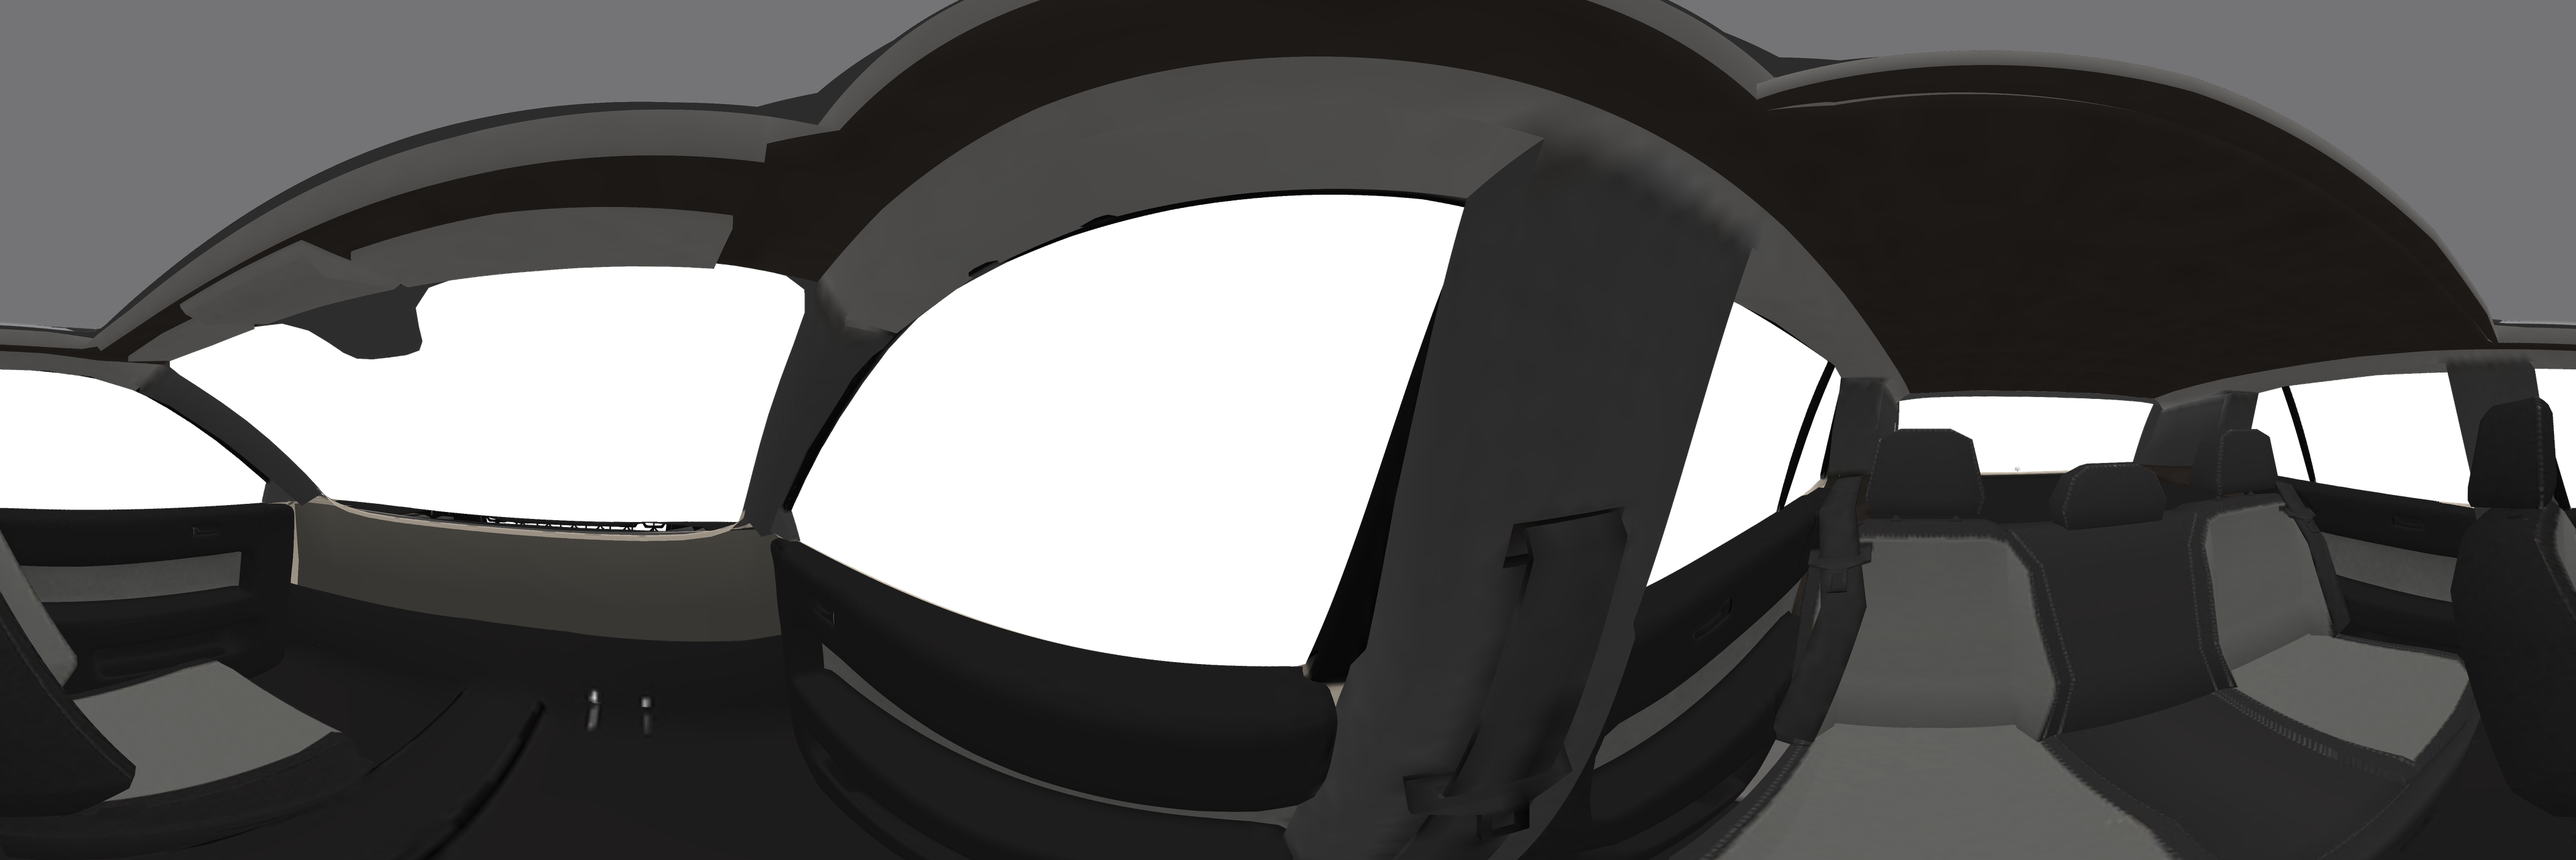
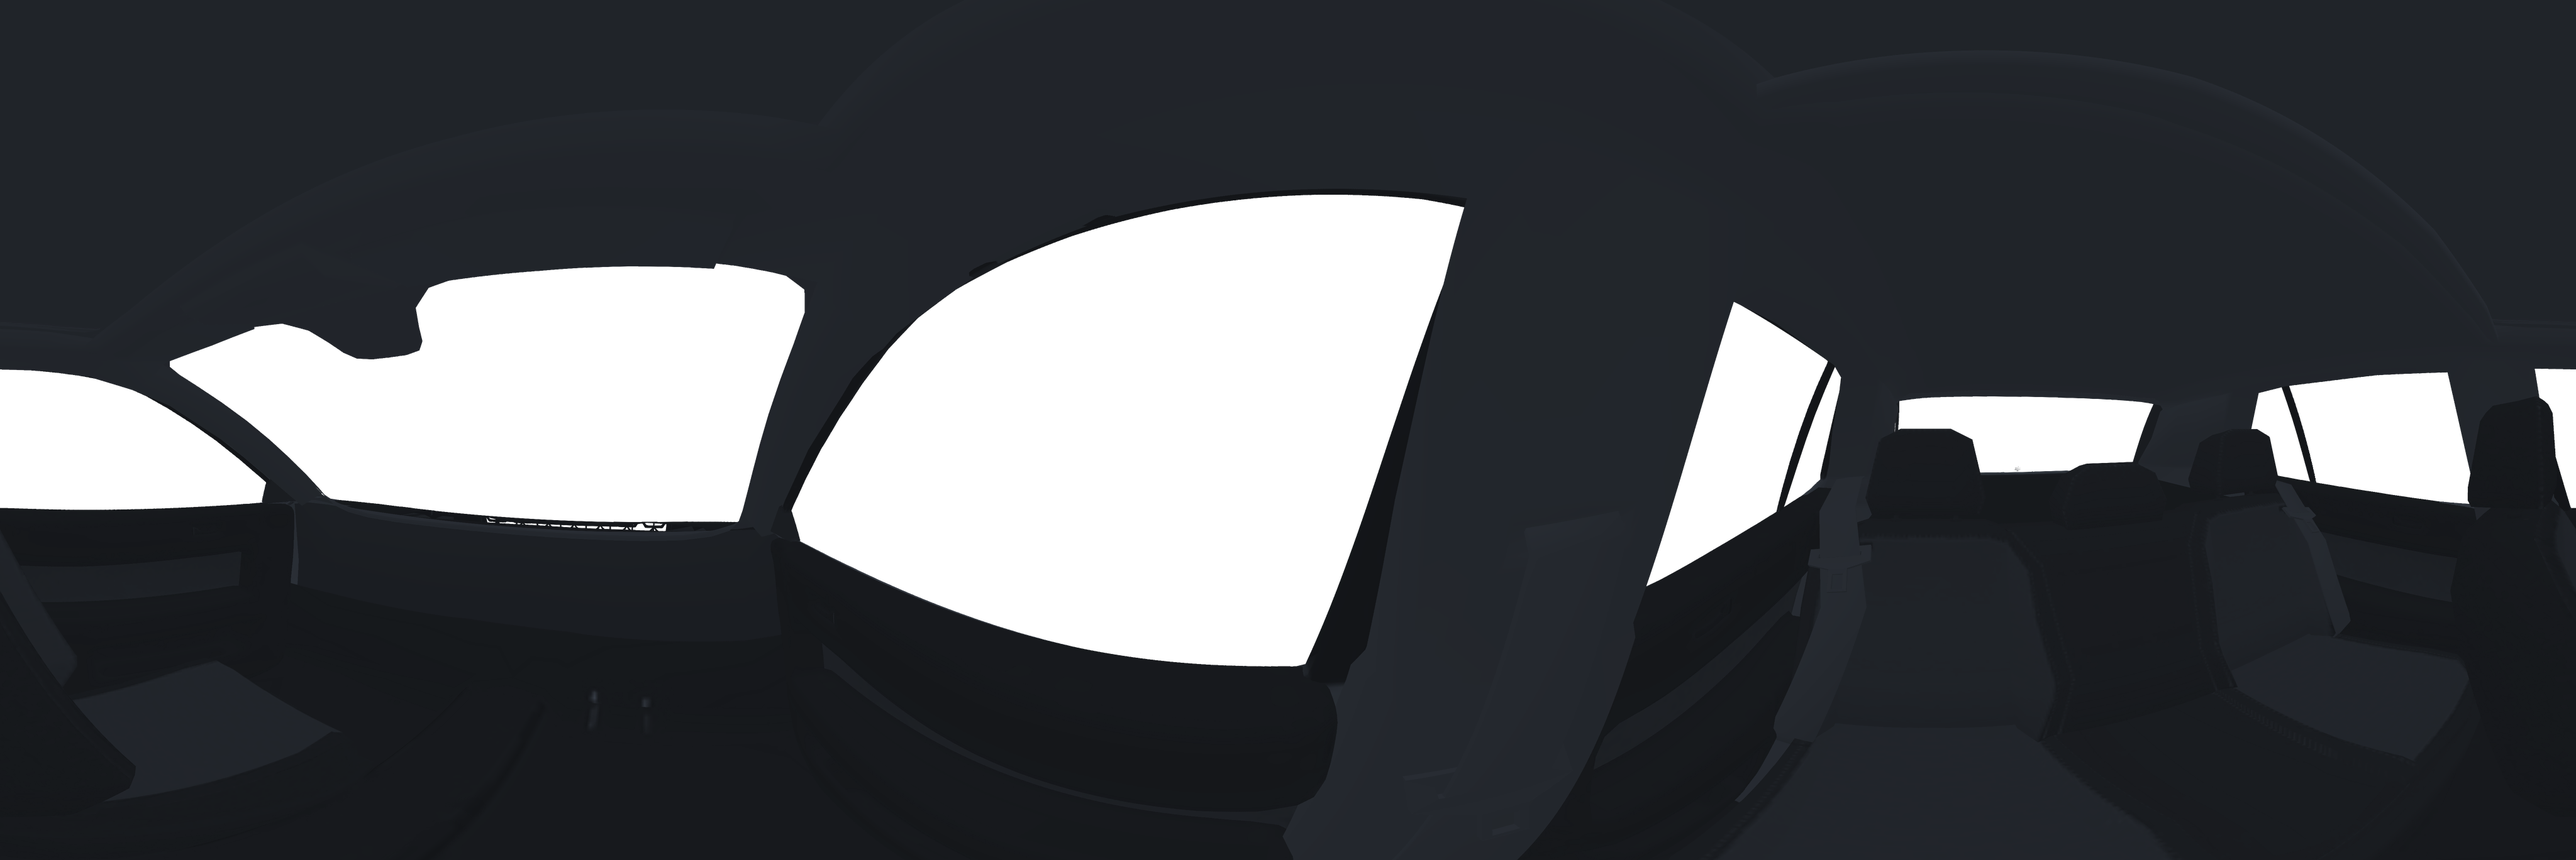
Cabin panorama: all interior in one dark slate tone, sunroof filled as flat headliner
Claude-Session: https://claude.ai/code/session_016Zy8X1pPCmx7oSK87GxSWN

diff --git a/tools/bake-pano/bake.html b/tools/bake-pano/bake.html
@@ -18,8 +18,11 @@ window.bake=async function(P){
  const ren=new T.WebGLRenderer({preserveDrawingBuffer:true,alpha:true});ren.outputEncoding=T.sRGBEncoding;ren.setSize(P.W,P.H);document.body.appendChild(ren.domElement);
  const sc=new T.Scene();const car=await loadGLB('car.glb');sc.add(car);sc.updateMatrixWorld(true);
  const GLASS=/Glass_ext-tinted|glass-windshield/;const HIDE=new RegExp(P.hide);
- const mask=new T.MeshBasicMaterial({color:0xff00ff,side:T.DoubleSide});
- car.traverse(o=>{if(!o.isMesh)return;if(HIDE.test(o.name)){o.visible=false;return}if(/glass-sunroof/.test(o.name))o.material=new T.MeshLambertMaterial({color:0x3c3c3e,side:T.DoubleSide});else if(GLASS.test(o.material.userData.name))o.material=mask;else if(o.material.userData.name.match(/^glass-headlight|Glass_-_Red/)){}});
+ const mask=new T.MeshBasicMaterial({color:0xff00ff,side:T.DoubleSide});const ROOF=new T.MeshLambertMaterial({color:P.roof,side:T.DoubleSide});
+ car.traverse(o=>{if(!o.isMesh)return;if(HIDE.test(o.name)){o.visible=false;return}if(/sunroof/.test(o.name))o.material=ROOF;      // 天窗玻璃、天窗框、顶棚：统一成一块平的深色顶棚，看不出天窗
+   else if(!GLASS.test(o.material.userData.name)){o.material.color.multiplyScalar(P.dark);}      // 其余内饰：贴图保留细节，整体压暗
+   if(GLASS.test(o.material.userData.name)&&!/sunroof/.test(o.name))o.material=mask;return;
+   if(GLASS.test(o.material.userData.name))o.material=mask;else if(o.material.userData.name.match(/^glass-headlight|Glass_-_Red/)){}});
  sc.add(new T.HemisphereLight(0xffffff,0x606060,P.hemi));const d=new T.DirectionalLight(0xffffff,P.dir);d.position.set(.3,1,.4);sc.add(d);sc.add(new T.AmbientLight(0xffffff,P.amb));
  const crt=new T.WebGLCubeRenderTarget(P.cube,{encoding:T.sRGBEncoding});const cc=new T.CubeCamera(.01,20,crt);cc.position.set(...P.eye);sc.add(cc);
  ren.setClearColor(0xff00ff,1);cc.update(ren,sc);

diff --git a/lib/cockpit.js b/lib/cockpit.js
@@ -36,7 +36,7 @@ setMir(false);
 let cluster=null,CLM=null;
 { // 车内壳体：一张环绕驾驶员的全景图，贴在驾驶员眼睛处的透明球体内侧。转头时它跟车不动。
   // pano3：用用户给的小型 SUV 3D 模型（车内座椅、门板、顶棚、立柱）在驾驶员眼睛处烘焙出来的 360° 图，玻璃和车外部分透明（tools/bake-pano）
- const pt=new T.TextureLoader().load('assets/pano3.png?v=1127l');pt.minFilter=T.LinearFilter;pt.generateMipmaps=false;
+ const pt=new T.TextureLoader().load('assets/pano3.png?v=1127m');pt.minFilter=T.LinearFilter;pt.generateMipmaps=false;
  const sp=new T.Mesh(new T.SphereGeometry(1.3,128,32,0,Math.PI*2,Math.PI/2-1.05,2.1),new T.MeshBasicMaterial({map:pt,transparent:true,side:T.BackSide,depthWrite:false,fog:false}));
  sp.position.set(.38,0,0);sp.renderOrder=1;sp.frustumCulled=false;cockpit.add(sp);
  // 仪表盘：只画一次的静态图（两个圆表盘）

diff --git a/index.html b/index.html
@@ -234,7 +234,7 @@ details.route summary{cursor:pointer}
 <script src="lib/sheet.js?v=1127b"></script>
 <script>
 // 版本号：改了哪个项目就改这里，让手机重新下载
-const V='1127l';
+const V='1127m';
 // ---------- 所有单项（以后模拟考试也按这里的 id 串起来） ----------
 const ITEMS={
  'green-right':{zh:'绿灯右转',en:'Right turn on green',dz:'行人和自行车、对面左转车、黄灯、警车，每次随机组合',de:'Pedestrians, cyclists, oncoming left-turners, amber lights and police cars in random combinations'},

diff --git a/exit.html b/exit.html
@@ -106,7 +106,7 @@ details{margin:8px 0;font-size:14px}summary{cursor:pointer;color:#2f6fe0;font-we
 <script src="lib/actors.js?v=1112y"></script>
 <script src="lib/ads.js?v=1110o"></script>
 <script src="lib/billboard.js?v=1110o"></script>
-<script src="lib/cockpit.js?v=1127l"></script>
+<script src="lib/cockpit.js?v=1127m"></script>
 <script src="lib/hq.js?v=1117d"></script>
 <script src="lib/ui.js?v=1117s"></script>
 <script src="lib/houses.js?v=1106i"></script>

diff --git a/green-left.html b/green-left.html
@@ -100,7 +100,7 @@ details{margin:8px 0;font-size:14px}summary{cursor:pointer;color:#2f6fe0;font-we
 <script src="lib/actors.js?v=1112y"></script>
 <script src="lib/ads.js?v=1110o"></script>
 <script src="lib/billboard.js?v=1110o"></script>
-<script src="lib/cockpit.js?v=1127l"></script>
+<script src="lib/cockpit.js?v=1127m"></script>
 <script src="lib/hq.js?v=1117d"></script>
 <script src="lib/rules.js?v=1028c"></script>
 <script src="lib/ui.js?v=1117s"></script>

diff --git a/green-arrow.html b/green-arrow.html
@@ -95,7 +95,7 @@ details{margin:8px 0;font-size:14px}summary{cursor:pointer;color:#2f6fe0;font-we
 <script src="lib/actors.js?v=1112y"></script>
 <script src="lib/ads.js?v=1110o"></script>
 <script src="lib/billboard.js?v=1110o"></script>
-<script src="lib/cockpit.js?v=1127l"></script>
+<script src="lib/cockpit.js?v=1127m"></script>
 <script src="lib/hq.js?v=1117d"></script>
 <script src="lib/rules.js?v=1028c"></script>
 <script src="lib/ui.js?v=1117s"></script>

diff --git a/green-right.html b/green-right.html
@@ -80,7 +80,7 @@ details{margin:8px 0;font-size:14px}summary{cursor:pointer;color:#2f6fe0;font-we
 <script src="lib/actors.js?v=1112y"></script>
 <script src="lib/ads.js?v=1110o"></script>
 <script src="lib/billboard.js?v=1110o"></script>
-<script src="lib/cockpit.js?v=1127l"></script>
+<script src="lib/cockpit.js?v=1127m"></script>
 <script src="lib/hq.js?v=1117d"></script>
 <script src="lib/rules.js?v=1028c"></script>
 <script src="lib/ui.js?v=1117s"></script>

diff --git a/red-right.html b/red-right.html
@@ -79,7 +79,7 @@ details{margin:8px 0;font-size:14px}summary{cursor:pointer;color:#2f6fe0;font-we
 <script src="lib/actors.js?v=1112y"></script>
 <script src="lib/ads.js?v=1110o"></script>
 <script src="lib/billboard.js?v=1110o"></script>
-<script src="lib/cockpit.js?v=1127l"></script>
+<script src="lib/cockpit.js?v=1127m"></script>
 <script src="lib/hq.js?v=1117d"></script>
 <script src="lib/rules.js?v=1028c"></script>
 <script src="lib/ui.js?v=1117s"></script>

diff --git a/headin.html b/headin.html
@@ -106,7 +106,7 @@ details{margin:8px 0;font-size:14px}summary{cursor:pointer;color:#2f6fe0;font-we
 <script src="lib/core.js?v=1120d"></script>
 <script src="lib/en.js?v=1127b"></script>
 <script src="lib/actors.js?v=1112y"></script>
-<script src="lib/cockpit.js?v=1127l"></script>
+<script src="lib/cockpit.js?v=1127m"></script>
 <script src="lib/ui.js?v=1117s"></script>
 <script src="lib/houses.js?v=1106i"></script>
 <script src="lib/hood.js?v=1117a"></script>

diff --git a/straight.html b/straight.html
@@ -83,7 +83,7 @@ details{margin:8px 0;font-size:14px}summary{cursor:pointer;color:#2f6fe0;font-we
 <script src="lib/actors.js?v=1112y"></script>
 <script src="lib/ads.js?v=1110o"></script>
 <script src="lib/billboard.js?v=1110o"></script>
-<script src="lib/cockpit.js?v=1127l"></script>
+<script src="lib/cockpit.js?v=1127m"></script>
 <script src="lib/hq.js?v=1117d"></script>
 <script src="lib/ui.js?v=1117s"></script>
 <script src="straight.js?v=1127h"></script>

diff --git a/hill-park.html b/hill-park.html
@@ -100,7 +100,7 @@ details{margin:8px 0;font-size:14px}summary{cursor:pointer;color:#2f6fe0;font-we
 <script src="lib/core.js?v=1120d"></script>
 <script src="lib/en.js?v=1127b"></script>
 <script src="lib/actors.js?v=1112y"></script>
-<script src="lib/cockpit.js?v=1127l"></script>
+<script src="lib/cockpit.js?v=1127m"></script>
 <script src="lib/hq.js?v=1117d"></script>
 <script src="lib/ui.js?v=1117s"></script>
 <script src="lib/houses.js?v=1106i"></script>

diff --git a/parallel.html b/parallel.html
@@ -102,7 +102,7 @@ details{margin:8px 0;font-size:14px}summary{cursor:pointer;color:#2f6fe0;font-we
 <script src="lib/core.js?v=1120d"></script>
 <script src="lib/en.js?v=1127b"></script>
 <script src="lib/actors.js?v=1112y"></script>
-<script src="lib/cockpit.js?v=1127l"></script>
+<script src="lib/cockpit.js?v=1127m"></script>
 <script src="lib/hq.js?v=1117d"></script>
 <script src="lib/ui.js?v=1117s"></script>
 <script src="lib/houses.js?v=1106i"></script>
